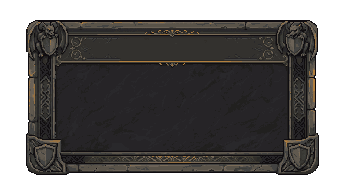
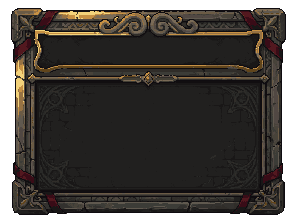
feat: moderniza a interface de seleção de personagens

diff --git a/Properties/Resources.Designer.cs b/Properties/Resources.Designer.cs
@@ -71,6 +71,66 @@ namespace FallenWorld.Properties {
         }
         
         /// <summary>
+        ///   Consulta um recurso localizado do tipo System.Drawing.Bitmap.
+        /// </summary>
+        public static System.Drawing.Bitmap BTN_Exit_hover {
+            get {
+                object obj = ResourceManager.GetObject("BTN_Exit_hover", resourceCulture);
+                return ((System.Drawing.Bitmap)(obj));
+            }
+        }
+        
+        /// <summary>
+        ///   Consulta um recurso localizado do tipo System.Drawing.Bitmap.
+        /// </summary>
+        public static System.Drawing.Bitmap BTN_Exit_normal {
+            get {
+                object obj = ResourceManager.GetObject("BTN_Exit_normal", resourceCulture);
+                return ((System.Drawing.Bitmap)(obj));
+            }
+        }
+        
+        /// <summary>
+        ///   Consulta um recurso localizado do tipo System.Drawing.Bitmap.
+        /// </summary>
+        public static System.Drawing.Bitmap BTN_Exit_pressed {
+            get {
+                object obj = ResourceManager.GetObject("BTN_Exit_pressed", resourceCulture);
+                return ((System.Drawing.Bitmap)(obj));
+            }
+        }
+        
+        /// <summary>
+        ///   Consulta um recurso localizado do tipo System.Drawing.Bitmap.
+        /// </summary>
+        public static System.Drawing.Bitmap BTN_Play_hover {
+            get {
+                object obj = ResourceManager.GetObject("BTN_Play_hover", resourceCulture);
+                return ((System.Drawing.Bitmap)(obj));
+            }
+        }
+        
+        /// <summary>
+        ///   Consulta um recurso localizado do tipo System.Drawing.Bitmap.
+        /// </summary>
+        public static System.Drawing.Bitmap BTN_Play_normal {
+            get {
+                object obj = ResourceManager.GetObject("BTN_Play_normal", resourceCulture);
+                return ((System.Drawing.Bitmap)(obj));
+            }
+        }
+        
+        /// <summary>
+        ///   Consulta um recurso localizado do tipo System.Drawing.Bitmap.
+        /// </summary>
+        public static System.Drawing.Bitmap BTN_Play_pressed {
+            get {
+                object obj = ResourceManager.GetObject("BTN_Play_pressed", resourceCulture);
+                return ((System.Drawing.Bitmap)(obj));
+            }
+        }
+        
+        /// <summary>
         ///   Consulta um recurso localizado do tipo System.IO.UnmanagedMemoryStream semelhante a System.IO.MemoryStream.
         /// </summary>
         public static System.IO.UnmanagedMemoryStream Cinderwick_s_Crooked_Grin {
@@ -944,36 +1004,6 @@ namespace FallenWorld.Properties {
         public static System.Drawing.Bitmap Enygma_Chest_sprite {
             get {
                 object obj = ResourceManager.GetObject("Enygma_Chest_sprite", resourceCulture);
-                return ((System.Drawing.Bitmap)(obj));
-            }
-        }
-        
-        /// <summary>
-        ///   Consulta um recurso localizado do tipo System.Drawing.Bitmap.
-        /// </summary>
-        public static System.Drawing.Bitmap Exit_hover {
-            get {
-                object obj = ResourceManager.GetObject("Exit_hover", resourceCulture);
-                return ((System.Drawing.Bitmap)(obj));
-            }
-        }
-        
-        /// <summary>
-        ///   Consulta um recurso localizado do tipo System.Drawing.Bitmap.
-        /// </summary>
-        public static System.Drawing.Bitmap Exit_normal {
-            get {
-                object obj = ResourceManager.GetObject("Exit_normal", resourceCulture);
-                return ((System.Drawing.Bitmap)(obj));
-            }
-        }
-        
-        /// <summary>
-        ///   Consulta um recurso localizado do tipo System.Drawing.Bitmap.
-        /// </summary>
-        public static System.Drawing.Bitmap Exit_pressed {
-            get {
-                object obj = ResourceManager.GetObject("Exit_pressed", resourceCulture);
                 return ((System.Drawing.Bitmap)(obj));
             }
         }
@@ -2290,36 +2320,6 @@ namespace FallenWorld.Properties {
         public static string Orc_Spritesheet_js {
             get {
                 return ResourceManager.GetString("Orc_Spritesheet_js", resourceCulture);
-            }
-        }
-        
-        /// <summary>
-        ///   Consulta um recurso localizado do tipo System.Drawing.Bitmap.
-        /// </summary>
-        public static System.Drawing.Bitmap Play_hover {
-            get {
-                object obj = ResourceManager.GetObject("Play_hover", resourceCulture);
-                return ((System.Drawing.Bitmap)(obj));
-            }
-        }
-        
-        /// <summary>
-        ///   Consulta um recurso localizado do tipo System.Drawing.Bitmap.
-        /// </summary>
-        public static System.Drawing.Bitmap Play_normal {
-            get {
-                object obj = ResourceManager.GetObject("Play_normal", resourceCulture);
-                return ((System.Drawing.Bitmap)(obj));
-            }
-        }
-        
-        /// <summary>
-        ///   Consulta um recurso localizado do tipo System.Drawing.Bitmap.
-        /// </summary>
-        public static System.Drawing.Bitmap Play_pressed {
-            get {
-                object obj = ResourceManager.GetObject("Play_pressed", resourceCulture);
-                return ((System.Drawing.Bitmap)(obj));
             }
         }
         

diff --git a/FormSelecaoPersonagem.Designer.cs b/FormSelecaoPersonagem.Designer.cs
@@ -39,6 +39,7 @@ namespace FallenWorld
             this.TMR_Music_Knight = new System.Windows.Forms.Timer(this.components);
             this.TMR_Music_Princess = new System.Windows.Forms.Timer(this.components);
             this.TMR_Music_choose_charactes = new System.Windows.Forms.Timer(this.components);
+            this.PNL_Description_Character = new System.Windows.Forms.Panel();
             this.SuspendLayout();
             // 
             // RDB_Mage
@@ -102,7 +103,7 @@ namespace FallenWorld
             this.BTN_PLAY.FlatAppearance.BorderSize = 0;
             this.BTN_PLAY.FlatAppearance.MouseDownBackColor = System.Drawing.Color.Transparent;
             this.BTN_PLAY.FlatAppearance.MouseOverBackColor = System.Drawing.Color.Transparent;
-            this.BTN_PLAY.Image = global::FallenWorld.Properties.Resources.Play_normal;
+            this.BTN_PLAY.Image = global::FallenWorld.Properties.Resources.BTN_Play_normal;
             this.BTN_PLAY.Name = "BTN_PLAY";
             this.BTN_PLAY.TabStop = false;
             this.BTN_PLAY.UseVisualStyleBackColor = true;
@@ -115,13 +116,13 @@ namespace FallenWorld
             // BTN_EXIT
             // 
             this.BTN_EXIT.BackColor = System.Drawing.Color.Transparent;
-            this.BTN_EXIT.BackgroundImage = global::FallenWorld.Properties.Resources.Exit_normal;
             resources.ApplyResources(this.BTN_EXIT, "BTN_EXIT");
             this.BTN_EXIT.FlatAppearance.BorderSize = 0;
             this.BTN_EXIT.FlatAppearance.MouseDownBackColor = System.Drawing.Color.Transparent;
             this.BTN_EXIT.FlatAppearance.MouseOverBackColor = System.Drawing.Color.Transparent;
+            this.BTN_EXIT.Image = global::FallenWorld.Properties.Resources.BTN_Exit_normal;
             this.BTN_EXIT.Name = "BTN_EXIT";
-            this.BTN_EXIT.UseVisualStyleBackColor = false;
+            this.BTN_EXIT.UseVisualStyleBackColor = true;
             this.BTN_EXIT.Click += new System.EventHandler(this.BTN_EXIT_Click);
             this.BTN_EXIT.KeyDown += new System.Windows.Forms.KeyEventHandler(this.BTN_EXIT_KeyDown);
             this.BTN_EXIT.MouseDown += new System.Windows.Forms.MouseEventHandler(this.BTN_EXIT_MouseDown);
@@ -129,12 +130,20 @@ namespace FallenWorld
             this.BTN_EXIT.MouseLeave += new System.EventHandler(this.BTN_EXIT_MouseLeave);
             this.BTN_EXIT.MouseUp += new System.Windows.Forms.MouseEventHandler(this.BTN_EXIT_MouseUp);
             // 
+            // PNL_Description_Character
+            // 
+            resources.ApplyResources(this.PNL_Description_Character, "PNL_Description_Character");
+            this.PNL_Description_Character.BackColor = System.Drawing.Color.Transparent;
+            this.PNL_Description_Character.BackgroundImage = global::FallenWorld.Properties.Resources.UI_Character_Description;
+            this.PNL_Description_Character.Name = "PNL_Description_Character";
+            // 
             // FormSelecaoPersonagem
             // 
             resources.ApplyResources(this, "$this");
             this.AutoScaleMode = System.Windows.Forms.AutoScaleMode.Dpi;
             this.BackColor = System.Drawing.SystemColors.Control;
             this.ControlBox = false;
+            this.Controls.Add(this.PNL_Description_Character);
             this.Controls.Add(this.BTN_EXIT);
             this.Controls.Add(this.BTN_PLAY);
             this.Controls.Add(this.RDB_Princess);
@@ -162,5 +171,6 @@ namespace FallenWorld
         private System.Windows.Forms.Timer TMR_Music_Knight;
         private System.Windows.Forms.Timer TMR_Music_Princess;
         private System.Windows.Forms.Timer TMR_Music_choose_charactes;
+        private System.Windows.Forms.Panel PNL_Description_Character;
     }
 }

diff --git a/FormSelecaoPersonagem.cs b/FormSelecaoPersonagem.cs
@@ -307,29 +307,29 @@ namespace FallenWorld
 
         private void BTN_PLAY_MouseEnter(object sender, EventArgs e)
         {
-            BTN_PLAY.Image = Properties.Resources.Play_hover;
+            BTN_PLAY.Image = Properties.Resources.BTN_Play_hover;
         }
 
         private void BTN_PLAY_MouseLeave(object sender, EventArgs e)
         {
-            BTN_PLAY.Image = Properties.Resources.Play_normal;
+            BTN_PLAY.Image = Properties.Resources.BTN_Play_normal;
         }
 
         private void BTN_PLAY_MouseDown(object sender, MouseEventArgs e)
         {
             if (e.Button == MouseButtons.Left)
-                BTN_PLAY.Image = Properties.Resources.Play_pressed;
+                BTN_PLAY.Image = Properties.Resources.BTN_Play_pressed;
         }
 
         private void BTN_PLAY_MouseUp(object sender, MouseEventArgs e)
         {
             if (BTN_PLAY.ClientRectangle.Contains(BTN_PLAY.PointToClient(Cursor.Position)))
             {
-                BTN_PLAY.Image = Properties.Resources.Play_hover;
+                BTN_PLAY.Image = Properties.Resources.BTN_Play_hover;
             }
             else
             {
-                BTN_PLAY.Image = Properties.Resources.Play_normal;
+                BTN_PLAY.Image = Properties.Resources.BTN_Play_normal;
             }
         }
         #endregion
@@ -337,43 +337,43 @@ namespace FallenWorld
         #region Botão Sair
         private void BTN_EXIT_Click(object sender, EventArgs e)
         {
-            BTN_EXIT.Image = Properties.Resources.Exit_pressed;
+            BTN_EXIT.Image = Properties.Resources.BTN_Exit_pressed;
             this.Close();
         }
         private void BTN_EXIT_KeyDown(object sender, KeyEventArgs e)
         {
             if(e.KeyCode == Keys.Escape)
             {
-                BTN_EXIT.Image = Properties.Resources.Exit_pressed;
+                BTN_EXIT.Image = Properties.Resources.BTN_Exit_pressed;
                 this.Close();
             }
         }
         
         private void BTN_EXIT_MouseEnter(object sender, EventArgs e)
         {
-            BTN_EXIT.BackgroundImage = Properties.Resources.Exit_hover;
+            BTN_EXIT.BackgroundImage = Properties.Resources.BTN_Exit_hover;
         }
 
         private void BTN_EXIT_MouseLeave(object sender, EventArgs e)
         {
-            BTN_EXIT.BackgroundImage = Properties.Resources.Exit_normal;
+            BTN_EXIT.BackgroundImage = Properties.Resources.BTN_Exit_normal;
         }
 
         private void BTN_EXIT_MouseDown(object sender, MouseEventArgs e)
         {
             if (e.Button == MouseButtons.Left)
-                BTN_EXIT.BackgroundImage = Properties.Resources.Exit_pressed;
+                BTN_EXIT.BackgroundImage = Properties.Resources.BTN_Exit_pressed;
         }
 
         private void BTN_EXIT_MouseUp(object sender, MouseEventArgs e)
         {
             if (BTN_EXIT.ClientRectangle.Contains(BTN_EXIT.PointToClient(Cursor.Position)))
             {
-                BTN_EXIT.BackgroundImage = Properties.Resources.Exit_hover;
+                BTN_EXIT.BackgroundImage = Properties.Resources.BTN_Exit_hover;
             }
             else
             {
-                BTN_EXIT.BackgroundImage = Properties.Resources.Exit_normal;
+                BTN_EXIT.BackgroundImage = Properties.Resources.BTN_Exit_normal;
             }
         }
         #endregion

diff --git a/FormGame.Designer.cs b/FormGame.Designer.cs
@@ -178,17 +178,16 @@
             // 
             // BTN_EXIT
             // 
-            this.BTN_EXIT.AutoSize = true;
             this.BTN_EXIT.BackColor = System.Drawing.Color.Transparent;
-            this.BTN_EXIT.BackgroundImageLayout = System.Windows.Forms.ImageLayout.None;
+            this.BTN_EXIT.BackgroundImageLayout = System.Windows.Forms.ImageLayout.Stretch;
             this.BTN_EXIT.FlatAppearance.BorderSize = 0;
             this.BTN_EXIT.FlatAppearance.MouseDownBackColor = System.Drawing.Color.Transparent;
             this.BTN_EXIT.FlatAppearance.MouseOverBackColor = System.Drawing.Color.Transparent;
             this.BTN_EXIT.FlatStyle = System.Windows.Forms.FlatStyle.Flat;
-            this.BTN_EXIT.Image = global::FallenWorld.Properties.Resources.Exit_normal;
-            this.BTN_EXIT.Location = new System.Drawing.Point(672, 4);
+            this.BTN_EXIT.Image = global::FallenWorld.Properties.Resources.BTN_Exit_normal;
+            this.BTN_EXIT.Location = new System.Drawing.Point(7, 510);
             this.BTN_EXIT.Name = "BTN_EXIT";
-            this.BTN_EXIT.Size = new System.Drawing.Size(109, 46);
+            this.BTN_EXIT.Size = new System.Drawing.Size(216, 86);
             this.BTN_EXIT.TabIndex = 4;
             this.BTN_EXIT.TabStop = false;
             this.BTN_EXIT.UseVisualStyleBackColor = false;

diff --git a/FormGame.cs b/FormGame.cs
@@ -2101,7 +2101,7 @@ namespace FallenWorld
             // Exit game
             if (e.KeyCode == Core.Exit)
             {
-                BTN_EXIT.Image = Properties.Resources.Exit_pressed;
+                BTN_EXIT.Image = Properties.Resources.BTN_Exit_pressed;
                 Core.isExiting = true;
                 return;
             }
@@ -2219,7 +2219,7 @@ namespace FallenWorld
             }
             if (e.KeyCode == Core.Exit)
             {
-                BTN_EXIT.Image = Properties.Resources.Exit_normal;
+                BTN_EXIT.Image = Properties.Resources.BTN_Exit_normal;
                 Core.isExiting = false;
                 this.Close();
                 return;
